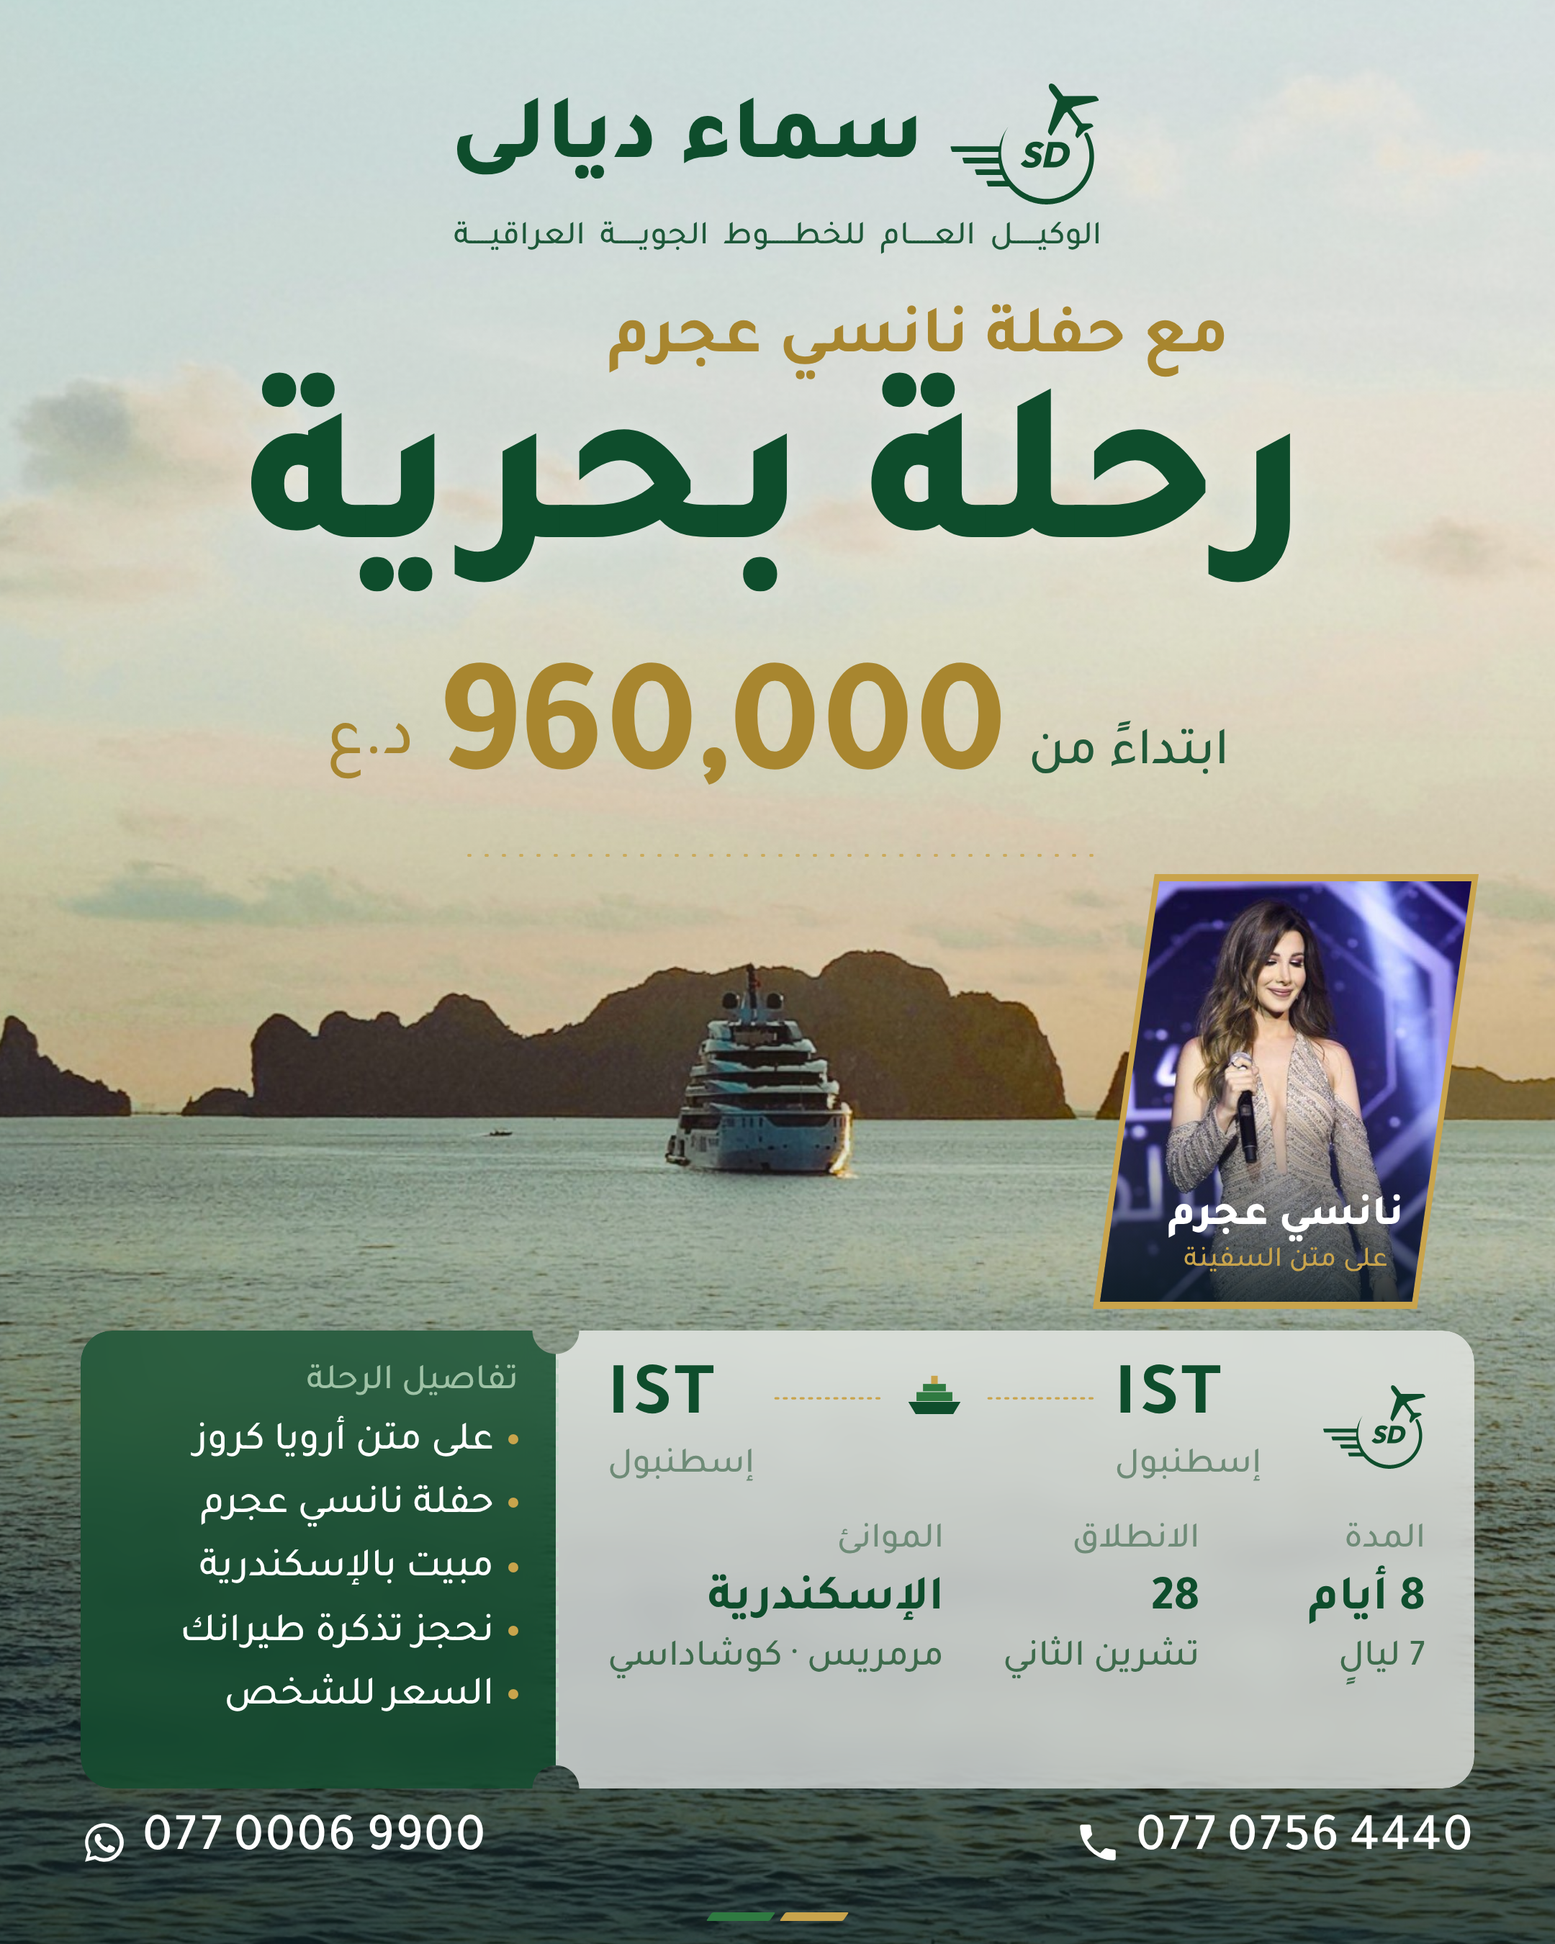
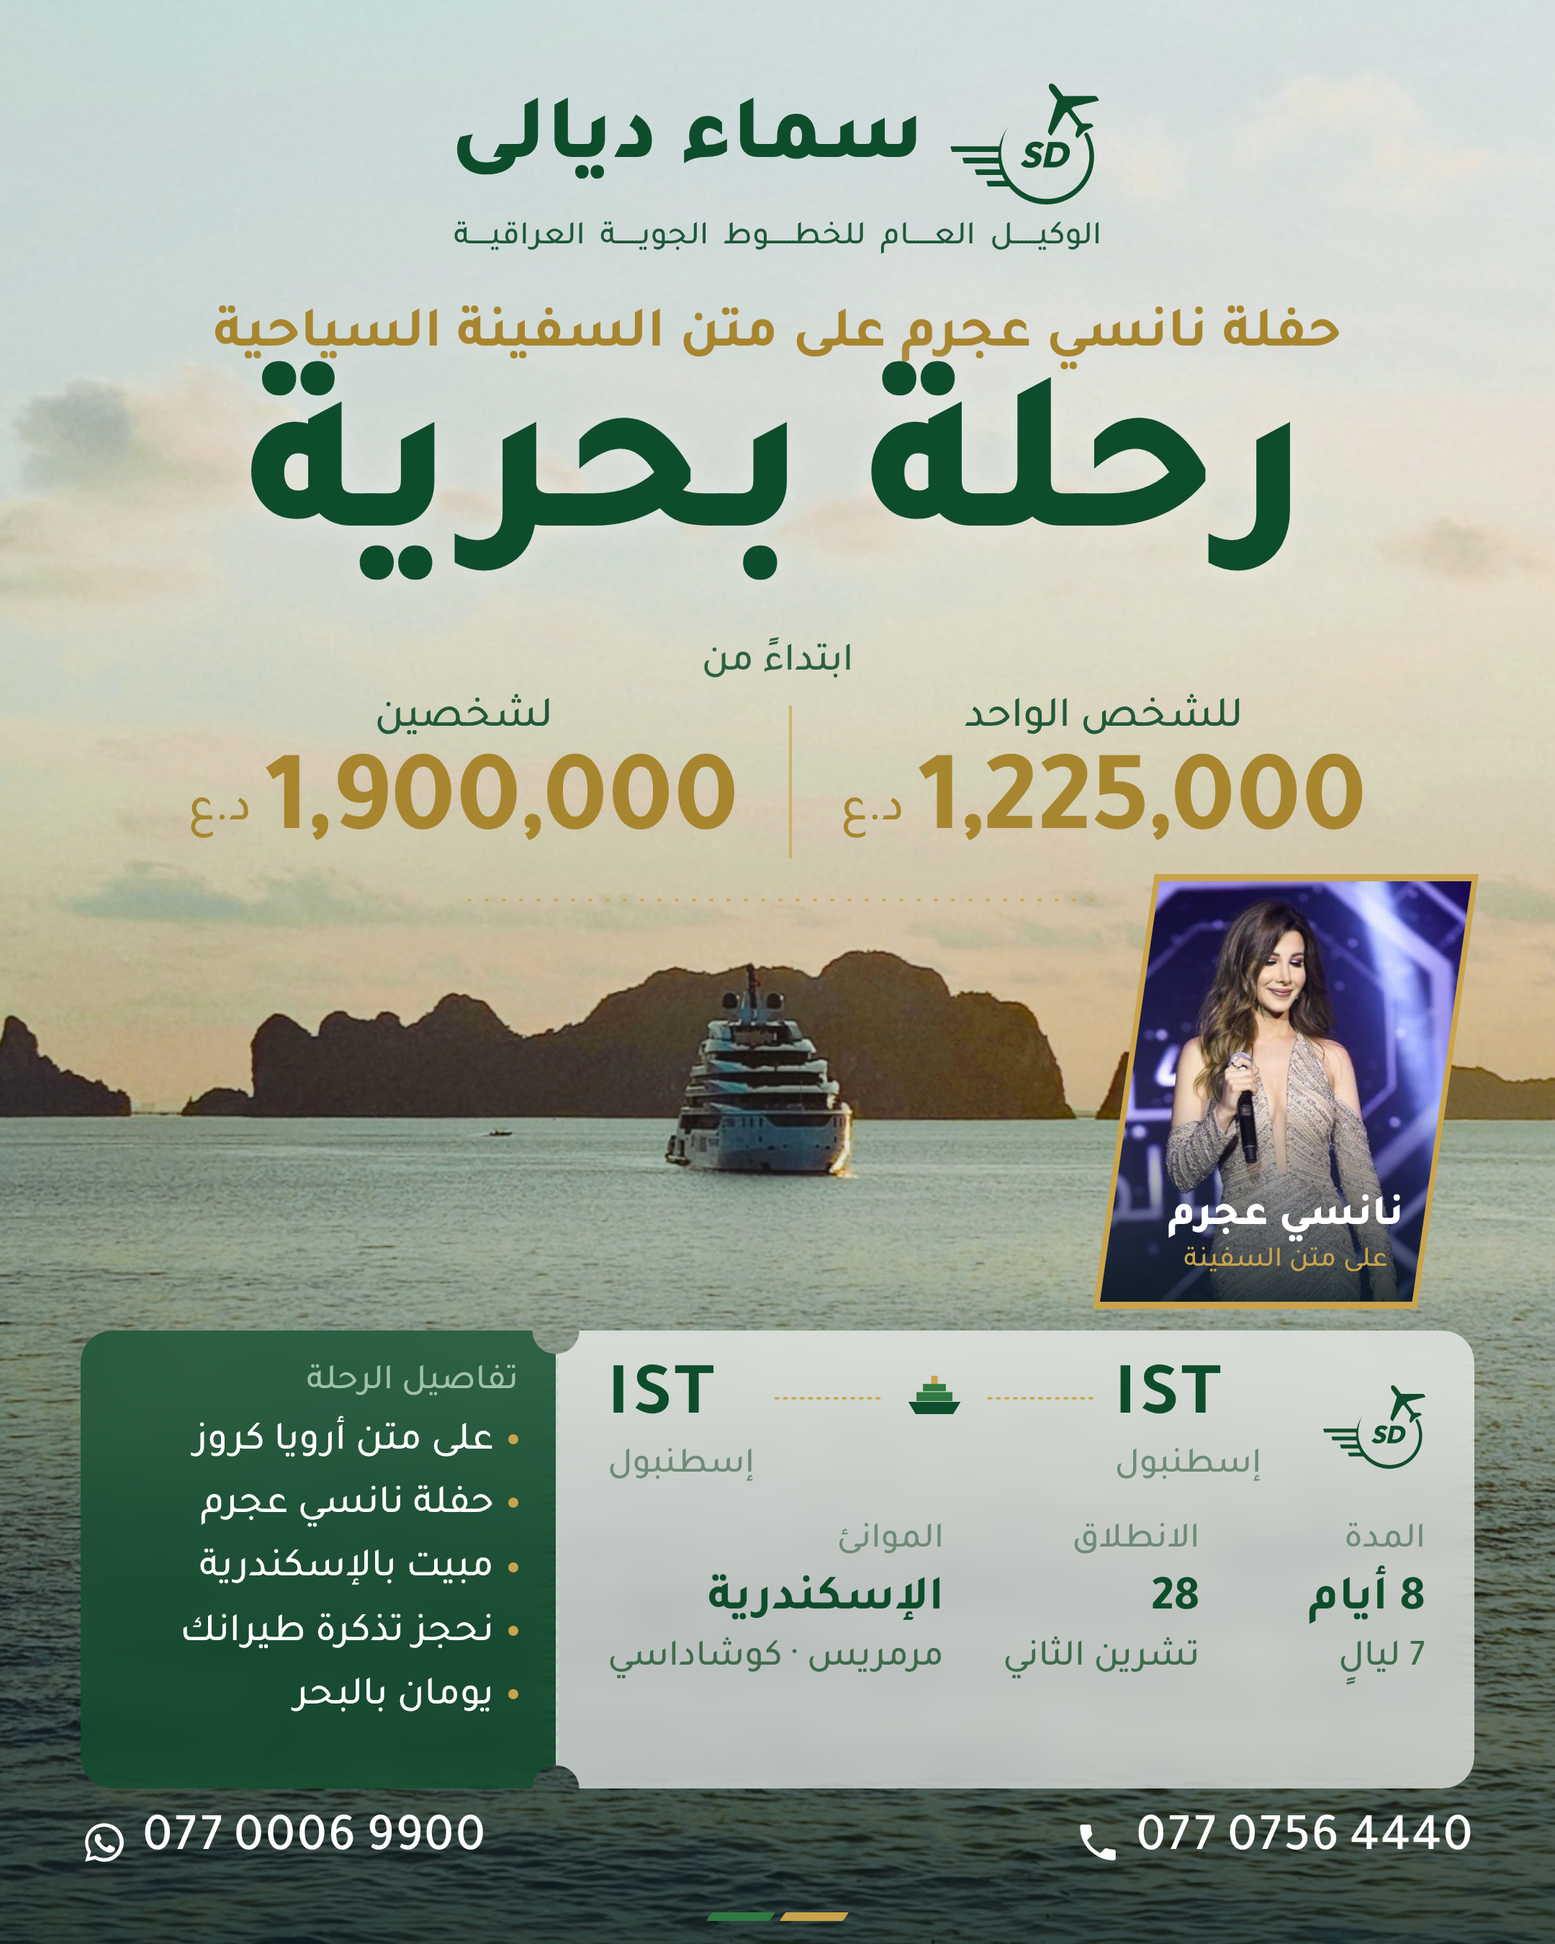
حفلة نانسي عجرم: سعران (للشخص الواحد ولشخصين) والسطر العلوي الجديد
Claude-Session: https://claude.ai/code/session_01EprWPUJDuKvYHn821imCPv

diff --git a/09-التصاميم/رحلة بحرية - حفلة نانسي عجرم - نظيف مع بطاقة صعود/إعلان.html b/09-التصاميم/رحلة بحرية - حفلة نانسي عجرم - نظيف مع بطاقة صعود/إعلان.html
@@ -131,6 +131,15 @@
   .star .pic::after{content:"";position:absolute;inset:0;background:linear-gradient(0deg,rgba(8,24,30,.85) 0%,rgba(8,24,30,0) 48%)}
   .star .cap{position:absolute;left:0;right:0;bottom:16px;text-align:center;color:#fff;font-family:Tajawal;font-weight:700;font-size:30px;line-height:1.15}
   .star .cap span{display:block;font-family:TajawalT;font-weight:500;font-size:20px;color:var(--gold);margin-top:2px}
+  .kicker{transform:none !important;font-size:40px !important}
+  .pfrom{margin-top:18px;font-family:TajawalT;font-weight:500;font-size:28px;opacity:.85}
+  .prices{margin-top:4px;display:flex;align-items:stretch;gap:34px;color:var(--accent)}
+  .prices .pb{display:flex;flex-direction:column;align-items:center}
+  .prices .lbl{font-family:TajawalT;font-weight:500;font-size:30px;color:var(--ink);opacity:.9;margin-bottom:6px}
+  .prices .pr{display:flex;align-items:baseline;gap:10px}
+  .prices .num{font-family:TajawalT;font-weight:600;font-size:80px;line-height:1;direction:ltr;letter-spacing:.5px}
+  .prices .cur{font-family:TajawalT;font-weight:500;font-size:34px;position:relative;top:-6px}
+  .prices .sep{width:2px;background:var(--gold);opacity:.7;margin:8px 0}
 </style>
 </head>
 <body>
@@ -152,12 +161,13 @@
       </div>
       <div class="tag" id="tag">الوكيــــــل العــــــام للخطــــــوط الجويــــــة العراقيـــــة</div>
     </div>
-    <div class="kicker">مع حفلة نانسي عجرم</div>
+    <div class="kicker">حفلة نانسي عجرم على متن السفينة السياحية</div>
     <div class="dest">رحلة بحرية</div>
-    <div class="price">
-      <span class="from">ابتداءً من</span>
-      <span class="num">960,000</span>
-      <span class="cur">د.ع</span>
+    <div class="pfrom">ابتداءً من</div>
+    <div class="prices">
+      <div class="pb"><div class="lbl">للشخص الواحد</div><div class="pr"><span class="num">1,225,000</span><span class="cur">د.ع</span></div></div>
+      <div class="sep"></div>
+      <div class="pb"><div class="lbl">لشخصين</div><div class="pr"><span class="num">1,900,000</span><span class="cur">د.ع</span></div></div>
     </div>
     <div class="perf"></div>
   </div>
@@ -187,7 +197,7 @@
     </div>
     <div class="stubx">
       <div class="k">تفاصيل الرحلة</div>
-      <ul><li>على متن أرويا كروز</li><li>حفلة نانسي عجرم</li><li>مبيت بالإسكندرية</li><li>نحجز تذكرة طيرانك</li><li>السعر للشخص</li></ul>
+      <ul><li>على متن أرويا كروز</li><li>حفلة نانسي عجرم</li><li>مبيت بالإسكندرية</li><li>نحجز تذكرة طيرانك</li><li>يومان بالبحر</li></ul>
     </div>
   </div>
   <div class="stripes"><i></i><i></i></div>

diff --git a/CLAUDE.md b/CLAUDE.md
@@ -84,7 +84,7 @@
 - عرض تذاكر "دبي من أربيل" (23 تشرين الثاني 2026، بسعر عرض منافس أعطاه إحسان 299,000 د.ع ذهاب وإياب): `09-التصاميم/دبي من أربيل - نظيف مع بطاقة صعود/`. الصورة المعتمدة برج خليفة عند الغروب (`08-الصور/وجهات/دبي - برج خليفة عند الغروب (الأصل).jpg`) مؤطّرة من الأسفل لتظهر معالم المدينة، ويُقص أعلى البرج (بطلب إحسان)، وتظليل بنفسجي داكن أعلى الصورة يجعل السعر الذهبي واضحاً بلا حد، وبين "دبي" والسعر مسافة 34px. ترويسة بيضاء وسطر علوي ذهبي. نسختا مرسى دبي (`إعلان - مرسى دبي.html`) والكولاج بصورتين (`إعلان - كولاج صورتين.html`) محفوظتان. السطر فوق الوجهة "أربيل – دبي – أربيل"، والمسار في البطاقة EBL ← DXB ← EBL، والكعب "ذهاب وإياب" و"أربيل – دبي – أربيل"، والخطوط مكبّرة في كل الإعلان عدا الترويسة المقاسة. فيه رقمان: 077 0006 9900 بواتساب يساراً، و077 0756 4440 بأيقونة هاتف يميناً (بلا +964). والستوري 1080×1920 بخط تجوال: `09-التصاميم/دبي من أربيل - ستوري/` (الصورة تغطي الإطار من الأسفل، والترويسة top:230، والبطاقة bottom:340، والرقمان bottom:268).
 
 - عرض تذاكر "بغداد – بيروت – بغداد" (24 تشرين الثاني 2026، تذكرة فقط ذهاب وإياب بسعر أعطاه إحسان 415,000 د.ع): `09-التصاميم/بغداد بيروت بغداد - نظيف مع بطاقة صعود/` والستوري `09-التصاميم/بغداد بيروت بغداد - ستوري/`، من قالب دبي من أربيل. الصورة طائرة العراقية منعكسة على زجاج مطار بيروت (`08-الصور/وجهات/بيروت - طائرة العراقية في زجاج المطار (عمودية للستوري).jpg`، صورة عمودية بدقة 768 فقط، والبوست منها أيضاً لأن سماءها أوسع)، والطائرة بين خط التخريم والبطاقة. ترويسة بيضاء وسعر ذهبي. المسار BGW ← BEY ← BGW، والخانات: الرحلة ذهاب وإياب، الانطلاق من بغداد، الطيران العراقية (بانتظار تأكيد إحسان أن الطيران واحد).
-- رحلة بحرية من إسطنبول (24 تشرين الثاني 2026): `09-التصاميم/رحلة بحرية من إسطنبول - نظيف مع بطاقة صعود/` (فيه ملفا المصدر: خط السير وأسعار الكابينات بالدولار، والأسعار للكابينة كاملة لا للشخص، وعنوان ملف الأسعار فيه B2B). سفينة أرويا، 8 أيام / 7 ليالٍ: إسطنبول، يوم بالبحر، الإسكندرية (مبيت)، مرمريس، كوشاداسي، يوم بالبحر، إسطنبول. السعر بطلب إحسان: أقل كابينة لشخصين (داخلية 1,066$) ÷ 2 = 533$، + 30$ = 563$ × 1,710 = 962,730، وقرّبه إحسان إلى 960,000 د.ع للشخص (رحلات 5 و19 كانون الأول؛ رحلة 28 تشرين الثاني بالسعر نفسه لم تُذكر لقربها). الصورة يخت بين جزر خليج ها لونغ (فيتنام) عند الغروب، واسم الكروز "على متن أرويا كروز" في كعب البطاقة الأخضر (بطلب إحسان)، والسطر العلوي "انطلاقاً من إسطنبول". ترويسة خضراء وسعر بالذهبي الغامق. كعب البطاقة "تفاصيل الرحلة": على متن أرويا كروز، 7 ليالٍ على السفينة، مبيت بالإسكندرية، يومان بالبحر، السعر للشخص. نوع الكابينة وعدد من فيها لا يُكتبان في الإعلان ولا النص (بطلب إحسان: المسافر يعرفها عند الاتصال). ونسخة لرحلة 28 تشرين الثاني فيها حفلة نانسي عجرم على السفينة: `09-التصاميم/رحلة بحرية - حفلة نانسي عجرم - نظيف مع بطاقة صعود/`، السطر العلوي "مع حفلة نانسي عجرم"، وصورتها (أرسلها إحسان، `08-الصور/نانسي عجرم - على المسرح (أرسلها إحسان).jpg`) في لوح مائل صغير بإطار ذهبي يمين الصورة فوق البطاقة، والكعب: على متن أرويا كروز، حفلة نانسي عجرم، مبيت بالإسكندرية، نحجز تذكرة طيرانك، السعر للشخص.
+- رحلة بحرية من إسطنبول (24 تشرين الثاني 2026): `09-التصاميم/رحلة بحرية من إسطنبول - نظيف مع بطاقة صعود/` (فيه ملفا المصدر: خط السير وأسعار الكابينات بالدولار، والأسعار للكابينة كاملة لا للشخص، وعنوان ملف الأسعار فيه B2B). سفينة أرويا، 8 أيام / 7 ليالٍ: إسطنبول، يوم بالبحر، الإسكندرية (مبيت)، مرمريس، كوشاداسي، يوم بالبحر، إسطنبول. السعر بطلب إحسان: أقل كابينة لشخصين (داخلية 1,066$) ÷ 2 = 533$، + 30$ = 563$ × 1,710 = 962,730، وقرّبه إحسان إلى 960,000 د.ع للشخص (رحلات 5 و19 كانون الأول؛ رحلة 28 تشرين الثاني بالسعر نفسه لم تُذكر لقربها). الصورة يخت بين جزر خليج ها لونغ (فيتنام) عند الغروب، واسم الكروز "على متن أرويا كروز" في كعب البطاقة الأخضر (بطلب إحسان)، والسطر العلوي "انطلاقاً من إسطنبول". ترويسة خضراء وسعر بالذهبي الغامق. كعب البطاقة "تفاصيل الرحلة": على متن أرويا كروز، 7 ليالٍ على السفينة، مبيت بالإسكندرية، يومان بالبحر، السعر للشخص. نوع الكابينة وعدد من فيها لا يُكتبان في الإعلان ولا النص (بطلب إحسان: المسافر يعرفها عند الاتصال). ونسخة لرحلة 28 تشرين الثاني فيها حفلة نانسي عجرم على السفينة: `09-التصاميم/رحلة بحرية - حفلة نانسي عجرم - نظيف مع بطاقة صعود/`، السطر العلوي "حفلة نانسي عجرم على متن السفينة السياحية" (في المنتصف)، وسعران بدل السعر الواحد تحت "ابتداءً من": للشخص الواحد 1,225,000 د.ع (688$ + 30 = 718$ × 1,710 = 1,227,780، قرّبه إحسان) ولشخصين 1,900,000 د.ع (1,066$ + 50 = 1,116$ × 1,710 = 1,908,360، قرّبه إحسان)، بينهما فاصل ذهبي. وصورتها (أرسلها إحسان، `08-الصور/نانسي عجرم - على المسرح (أرسلها إحسان).jpg`) في لوح مائل صغير بإطار ذهبي يمين الصورة فوق البطاقة، والكعب: على متن أرويا كروز، حفلة نانسي عجرم، مبيت بالإسكندرية، نحجز تذكرة طيرانك، يومان بالبحر.
 
 ## التسليم (من 19 تشرين الثاني 2026)
 - المعتمد للنشر: صور PNG عالية الجودة (2160×2700). بعد كل تصميم أو تعديل تُنسخ تلقائياً إلى `13-جاهز-للنشر/` باسم العرض (مثل "الأردن رأس السنة.png")، وتُرسل الصورة لإحسان.
